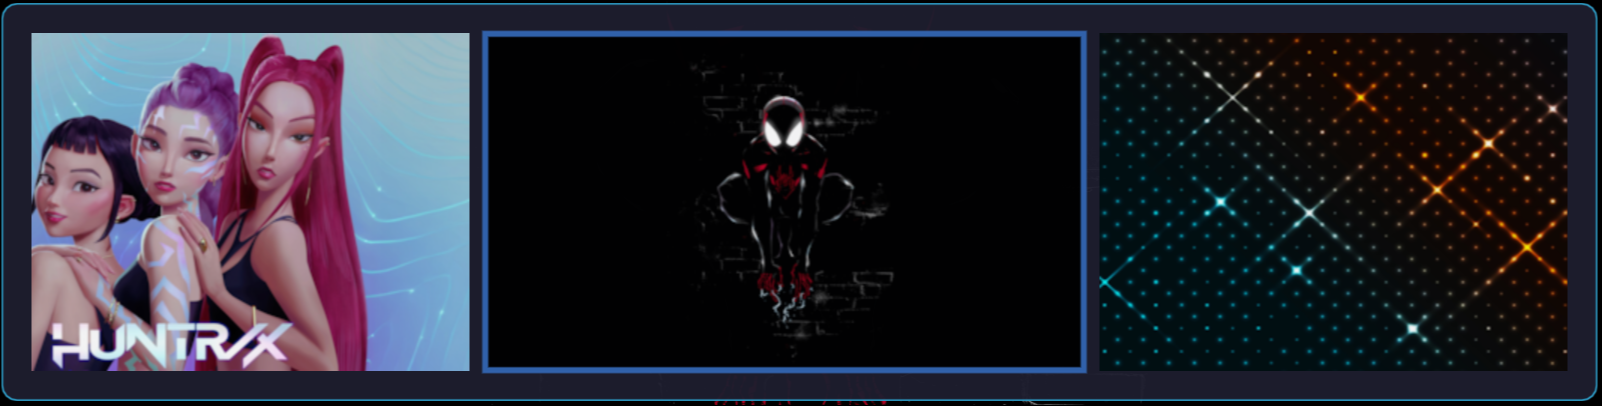
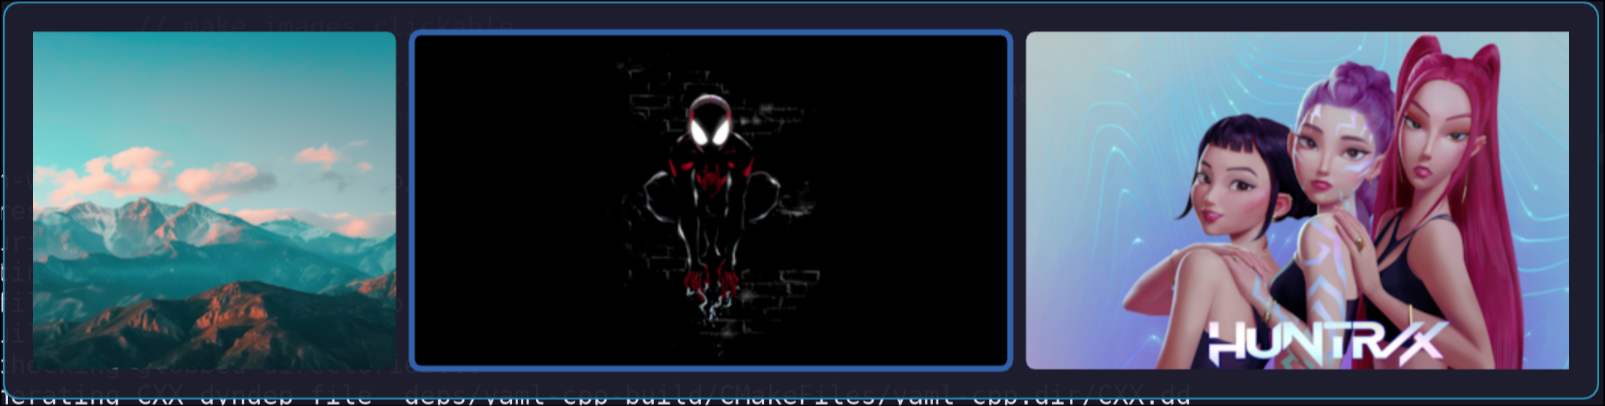
add wallpaper image rounding to theme

diff --git a/src/frames/images.cpp b/src/frames/images.cpp
@@ -105,7 +105,7 @@ FrameResult ImageList::render() {
                 ImVec2 p_max = ImVec2(p_min.x + image_width, p_min.y + image_height);
                 ImU32 color = ImGui::GetColorU32(hoverColor);
                 // draw on foreground layer to avoid child clipping
-                ImGui::GetForegroundDrawList()->AddRect(p_min, p_max, color, 12.0f, 0, 4.0f);
+                ImGui::GetForegroundDrawList()->AddRect(p_min, p_max, color, imageRounding, 0, 4.0f);
             }
 
             // make images clickable
@@ -114,7 +114,7 @@ FrameResult ImageList::render() {
             ImVec2 p_min = ImGui::GetCursorScreenPos();
             ImVec2 p_max = ImVec2(p_min.x + image_width, p_min.y + image_height);
             ImGui::GetWindowDrawList()->AddImageRounded(
-                (void*)(intptr_t)textures[i], p_min, p_max, ImVec2(0, 0), ImVec2(1, 1), IM_COL32_WHITE, 12.0f);
+                (void*)(intptr_t)textures[i], p_min, p_max, ImVec2(0, 0), ImVec2(1, 1), IM_COL32_WHITE, imageRounding);
             ImGui::Dummy(ImVec2(image_width, image_height));
             ImGui::PopID();
 
@@ -201,4 +201,7 @@ GLuint ImageList::LoadTextureFromFile(const char* filename) {
     return texture;
 }
 
-void ImageList::applyTheme(const Config& config) { hoverColor = config.getColor("theme", "hover_color", "#3366B366"); }
+void ImageList::applyTheme(const Config& config) {
+    hoverColor = config.getColor("theme", "hover_color", "#3366B366");
+    imageRounding = config.getFloat("theme", "frame_rounding", 8.0);
+}

diff --git a/src/frames/images.hpp b/src/frames/images.hpp
@@ -20,6 +20,7 @@ private:
     float scrollOffset = 0.0f;
     int logicalWidth;
     int logicalHeight;
+    float imageRounding = 8;
     std::vector<GLuint> textures;
     std::vector<Wallpaper> wallpapers;
     std::vector<Wallpaper> pendingWallpapers;
